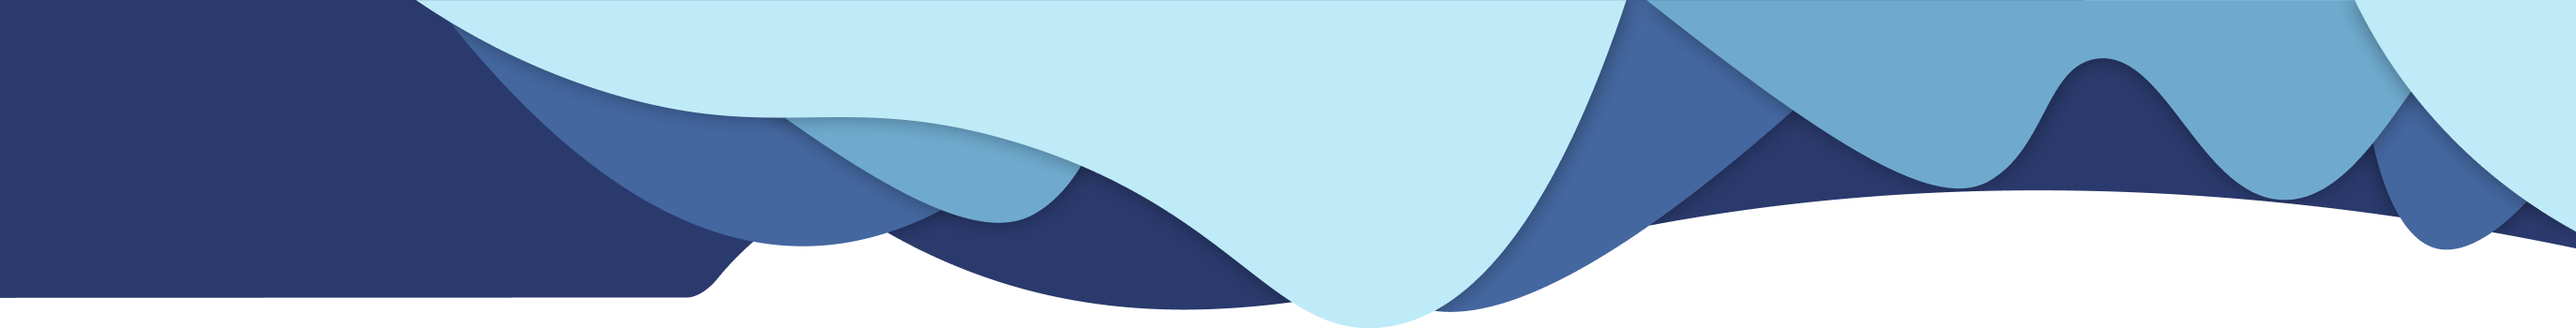
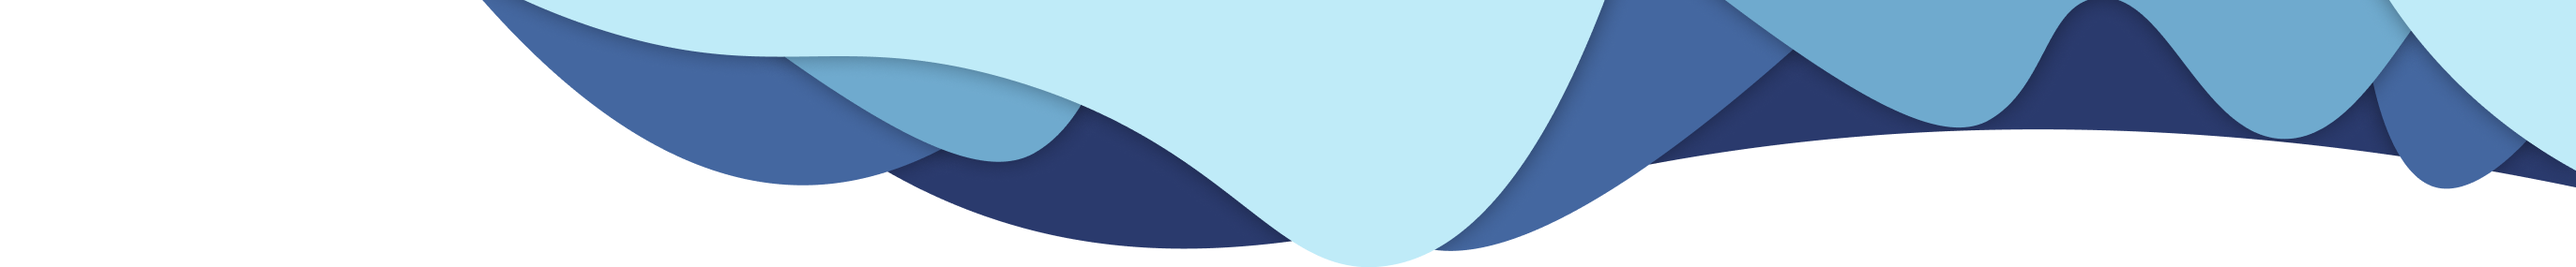
Changed overlays images and scroll fixes
Changed the overlay images and gave the topmost and bottommost cards more room so that they scroll more to the middle of the page

diff --git a/src/App.js b/src/App.js
@@ -9,7 +9,7 @@ function App() {
   const [selectedProject, setSelectedProject] = useState(null);
   const [backgroundImage, setBackgroundImage] = useState("");
   const [activeCardIndex, setActiveCardIndex] = useState(null);
-  
+
   const containerRef = useRef(null); // Ref for the scroll container
   const cardRefs = useRef([]); // Array of refs for each card
   const lastScrollTop = useRef(0); // Track the last scroll position
@@ -100,22 +100,25 @@ function App() {
       containerRef.current &&
       cardRefs.current.length > 0
     ) {
-      const selectedIndex = projects.findIndex((p) => p.id === selectedProject.id);
+      const selectedIndex = projects.findIndex(
+        (p) => p.id === selectedProject.id
+      );
       if (selectedIndex !== -1 && cardRefs.current[selectedIndex]) {
         const containerHeight = containerRef.current.clientHeight;
         const cardElem = cardRefs.current[selectedIndex];
         const cardOffsetTop = cardElem.offsetTop;
         const cardHeight = cardElem.clientHeight;
-        
+
         let newScrollTop = cardOffsetTop - containerHeight / 2 + cardHeight / 2;
-        const maxScrollTop = containerRef.current.scrollHeight - containerHeight;
+        const maxScrollTop =
+          containerRef.current.scrollHeight - containerHeight;
         newScrollTop = Math.min(newScrollTop, maxScrollTop);
-        
+
         containerRef.current.scrollTo({
           top: newScrollTop,
           behavior: "smooth",
         });
-        
+
         refreshScrollRun.current = true; // Run this effect only once on refresh
       }
     }
@@ -139,9 +142,17 @@ function App() {
         transition: "background-image 0.5s ease-in-out",
       }}
     >
-      <div>
-      <img className="overlayTop" src={require('./images/topOverlay.png')} alt="overlay"/>  
-      <img className="overlayBottom" src={require('./images/bottomOverlay.png')} alt="overlay"/>
+      <div className="overlay">
+        <img
+          className="overlayTop"
+          src={require("./images/topOverlay.png")}
+          alt="overlay"
+        />
+        <img
+          className="overlayBottom"
+          src={require("./images/bottomOverlay.png")}
+          alt="overlay"
+        />
       </div>
       <div className="left-section">
         {selectedProject ? (
@@ -172,6 +183,8 @@ function App() {
                 cursor: "pointer",
                 transform: transformValue,
                 transition: "transform 0.3s ease",
+                marginTop: index === 0 ? "250px" : "0px", // Add top margin for the first card
+                marginBottom: index === projects.length - 1 ? "250px" : "0px", // Add bottom margin for the last card
               }}
             >
               <Card

diff --git a/src/App.css b/src/App.css
@@ -41,29 +41,43 @@ a{
   background-color: transparent;
 }
 
-.overlay{
+/* Overlay container styling */
+.overlay {
+  pointer-events: none; /* Prevent interaction with the overlay */
+  position: fixed; /* Remove from layout flow and fix it to the viewport */
+  top: 0;
+  left: 0;
+  width: 100vw;
+  height: 100vh;
+  z-index: 5; /* Ensure it's layered above the content */
   display: flex;
   flex-direction: column;
-  pointer-events: none;
+  justify-content: space-between; /* Ensure proper spacing for top and bottom overlays */
 }
 
-.overlayTop{
-  height: 50vh;
-  width: 100vw;
-  position:fixed;
-  top: -180px;
-  z-index: 5;
-  object-fit: contain;
-  pointer-events: none;
-
+/* Styling for top overlay container */
+.overlayTopContainer {
+  display: flex;
+  justify-content: center; /* Center the image horizontally */
 }
 
-.overlayBottom{
-  height: 50vh;
-  width: 100vw;
-  z-index: 5;
-  position:fixed;
+.overlayTop {
+  height: auto;
+  max-height: 50vh;
+  width: 100%;
   object-fit: contain;
-  pointer-events: none;
-  bottom: -50px;
+  top: -90px;
+}
+
+/* Styling for bottom overlay container */
+.overlayBottomContainer {
+  display: flex;
+  justify-content: center; /* Center the image horizontally */
+}
+
+.overlayBottom {
+  height: auto;
+  max-height: 50vh;
+  width: 100%;
+  object-fit: contain;
 }
